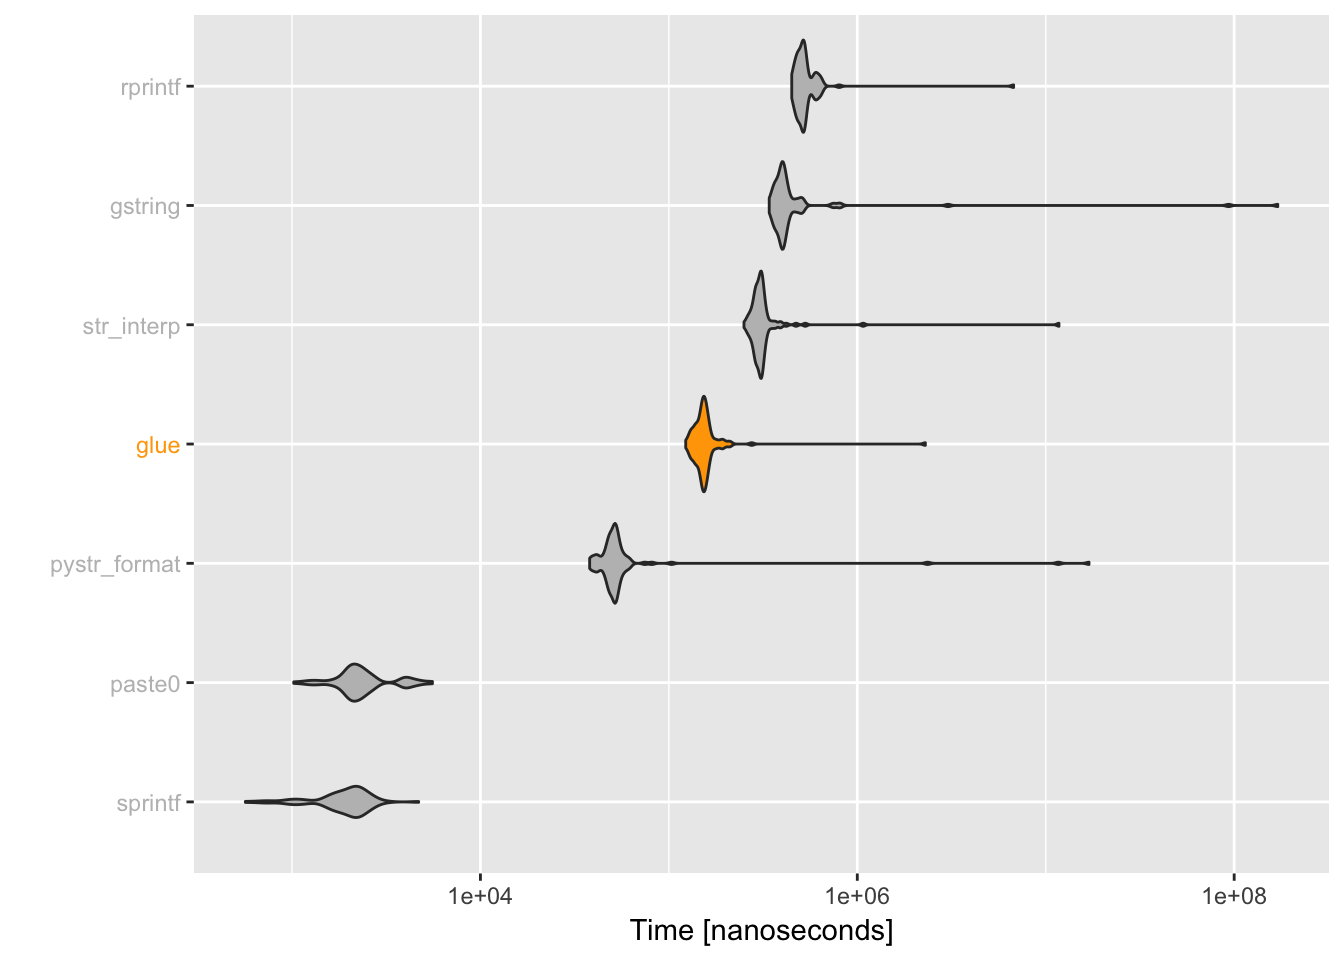
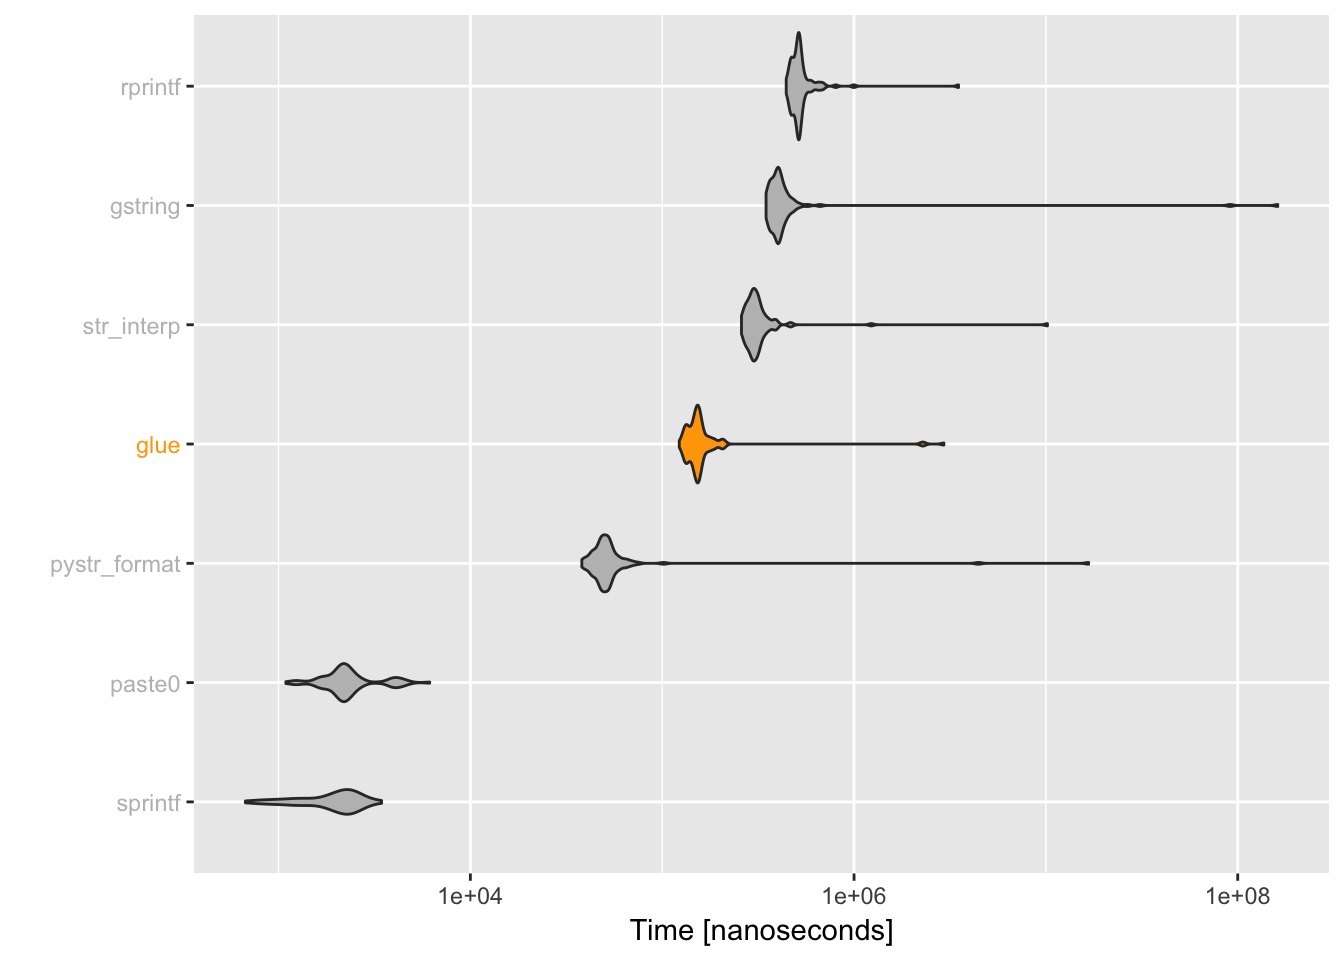
Cache chunks for speed vignette

diff --git a/docs/articles/speed.html b/docs/articles/speed.html
@@ -94,9 +94,9 @@
 <p>A good way to determine this is to compare it’s speed of execution to some alternatives.</p>
 <ul>
 <li>
-<code><a href="http://www.rdocumentation.org/packages/base/topics/paste">base::paste0()</a></code>, <code>base::printf()</code> - Functions in base R implemented in C that provide variable insertion (but not interpolation).</li>
+<code><a href="http://www.rdocumentation.org/packages/base/topics/paste">base::paste0()</a></code>, <code><a href="http://www.rdocumentation.org/packages/base/topics/sprintf">base::sprintf()</a></code> - Functions in base R implemented in C that provide variable insertion (but not interpolation).</li>
 <li>
-<code><a href="http://www.rdocumentation.org/packages/R.utils/topics/gstring">R.utils::gstring()</a></code>, <code>stringr::str_inperp()</code> - Provides a similar interface as glue, but using <code>${}</code> to delimit blocks to interpolate.</li>
+<code><a href="http://www.rdocumentation.org/packages/R.utils/topics/gstring">R.utils::gstring()</a></code>, <code><a href="http://www.rdocumentation.org/packages/stringr/topics/str_interp">stringr::str_interp()</a></code> - Provides a similar interface as glue, but using <code>${}</code> to delimit blocks to interpolate.</li>
 <li>
 <code><a href="http://www.rdocumentation.org/packages/pystr/topics/pystr_format">pystr::pystr_format()</a></code><a href="#fn1" class="footnoteRef" id="fnref1"><sup>1</sup></a>, <code><a href="http://www.rdocumentation.org/packages/rprintf/topics/rprintf">rprintf::rprintf()</a></code> - Provide a interfaces similar to python string formatters with variable replacement, but not arbitrary interpolation.</li>
 </ul>
@@ -120,13 +120,13 @@ simple &lt;-
 <div class="output">
 <pre class="knitr r">#&gt; Unit: evaluations per second
 #&gt;          expr       min     lq       mean median     uq     max neval cld
-#&gt;       rprintf    148.00   1850   1902.831   1937   2062    2228   100 a  
-#&gt;       gstring      5.87   2339   2365.255   2491   2627    2933   100 a  
-#&gt;    str_interp     85.07   3171   3223.143   3284   3464    3993   100 a  
-#&gt;          glue    435.30   6280   6509.552   6575   6972    8138   100 a  
-#&gt;  pystr_format     58.92  18600  19349.724  19500  20850   26320   100 a  
-#&gt;        paste0 179800.00 381700 450772.453 449100 499800  978500   100  b 
-#&gt;       sprintf 212700.00 437600 579980.307 492000 612200 1767000   100   c
+#&gt;       rprintf 2.853e+02   1885   1916.441   1948   2075    2257   100 a  
+#&gt;       gstring 6.184e+00   2347   2426.829   2484   2656    2875   100 a  
+#&gt;    str_interp 9.813e+01   3107   3211.436   3314   3477    3861   100 a  
+#&gt;          glue 3.401e+02   6235   6402.115   6537   7036    8148   100 a  
+#&gt;  pystr_format 5.989e+01  18580  19568.940  19870  21370   26240   100 a  
+#&gt;        paste0 1.628e+05 399100 455685.347 451100 507300  915800   100  b 
+#&gt;       sprintf 2.904e+05 414300 586195.306 473800 693700 1488000   100   c
 </pre>
 </div>
 <div class="sourceCode"><pre class="sourceCode r"><code class="sourceCode r">
@@ -157,11 +157,11 @@ vectorized &lt;-
 <div class="output">
 <pre class="knitr r">#&gt; Unit: milliseconds
 #&gt;     expr   min    lq     mean median    uq    max neval  cld
-#&gt;   paste0 12.93 13.30 14.15082  13.75 14.57  18.67   100 a   
-#&gt;  sprintf 16.77 17.17 18.35378  18.03 19.21  24.51   100  b  
-#&gt;     glue 19.28 20.84 25.85976  23.16 25.42 157.00   100   c 
-#&gt;  gstring 25.73 26.33 28.31059  28.34 29.91  33.08   100   c 
-#&gt;  rprintf 60.16 64.21 67.66198  67.23 70.13  82.35   100    d
+#&gt;   paste0 12.80 13.03 13.74104  13.32 13.91  19.81   100 a   
+#&gt;  sprintf 16.85 17.17 18.03911  17.48 18.39  25.08   100  b  
+#&gt;     glue 19.43 20.21 24.67036  21.35 23.95 147.90   100   c 
+#&gt;  gstring 25.64 26.18 28.68098  26.70 28.42 146.00   100   c 
+#&gt;  rprintf 60.19 61.34 65.16353  63.74 65.79 185.80   100    d
 </pre>
 </div>
 <div class="sourceCode"><pre class="sourceCode r"><code class="sourceCode r">
@@ -171,7 +171,7 @@ vectorized &lt;-
 <div class="footnotes">
 <hr>
 <ol>
-<li id="fn1"><p>pystr has been removed from CRAN due to failure to correct installation errors.<a href="#fnref1">↩</a></p></li>
+<li id="fn1"><p>pystr is no longer available from CRAN due to failure to correct installation errors.<a href="#fnref1">↩</a></p></li>
 </ol>
 </div>
 </div>
